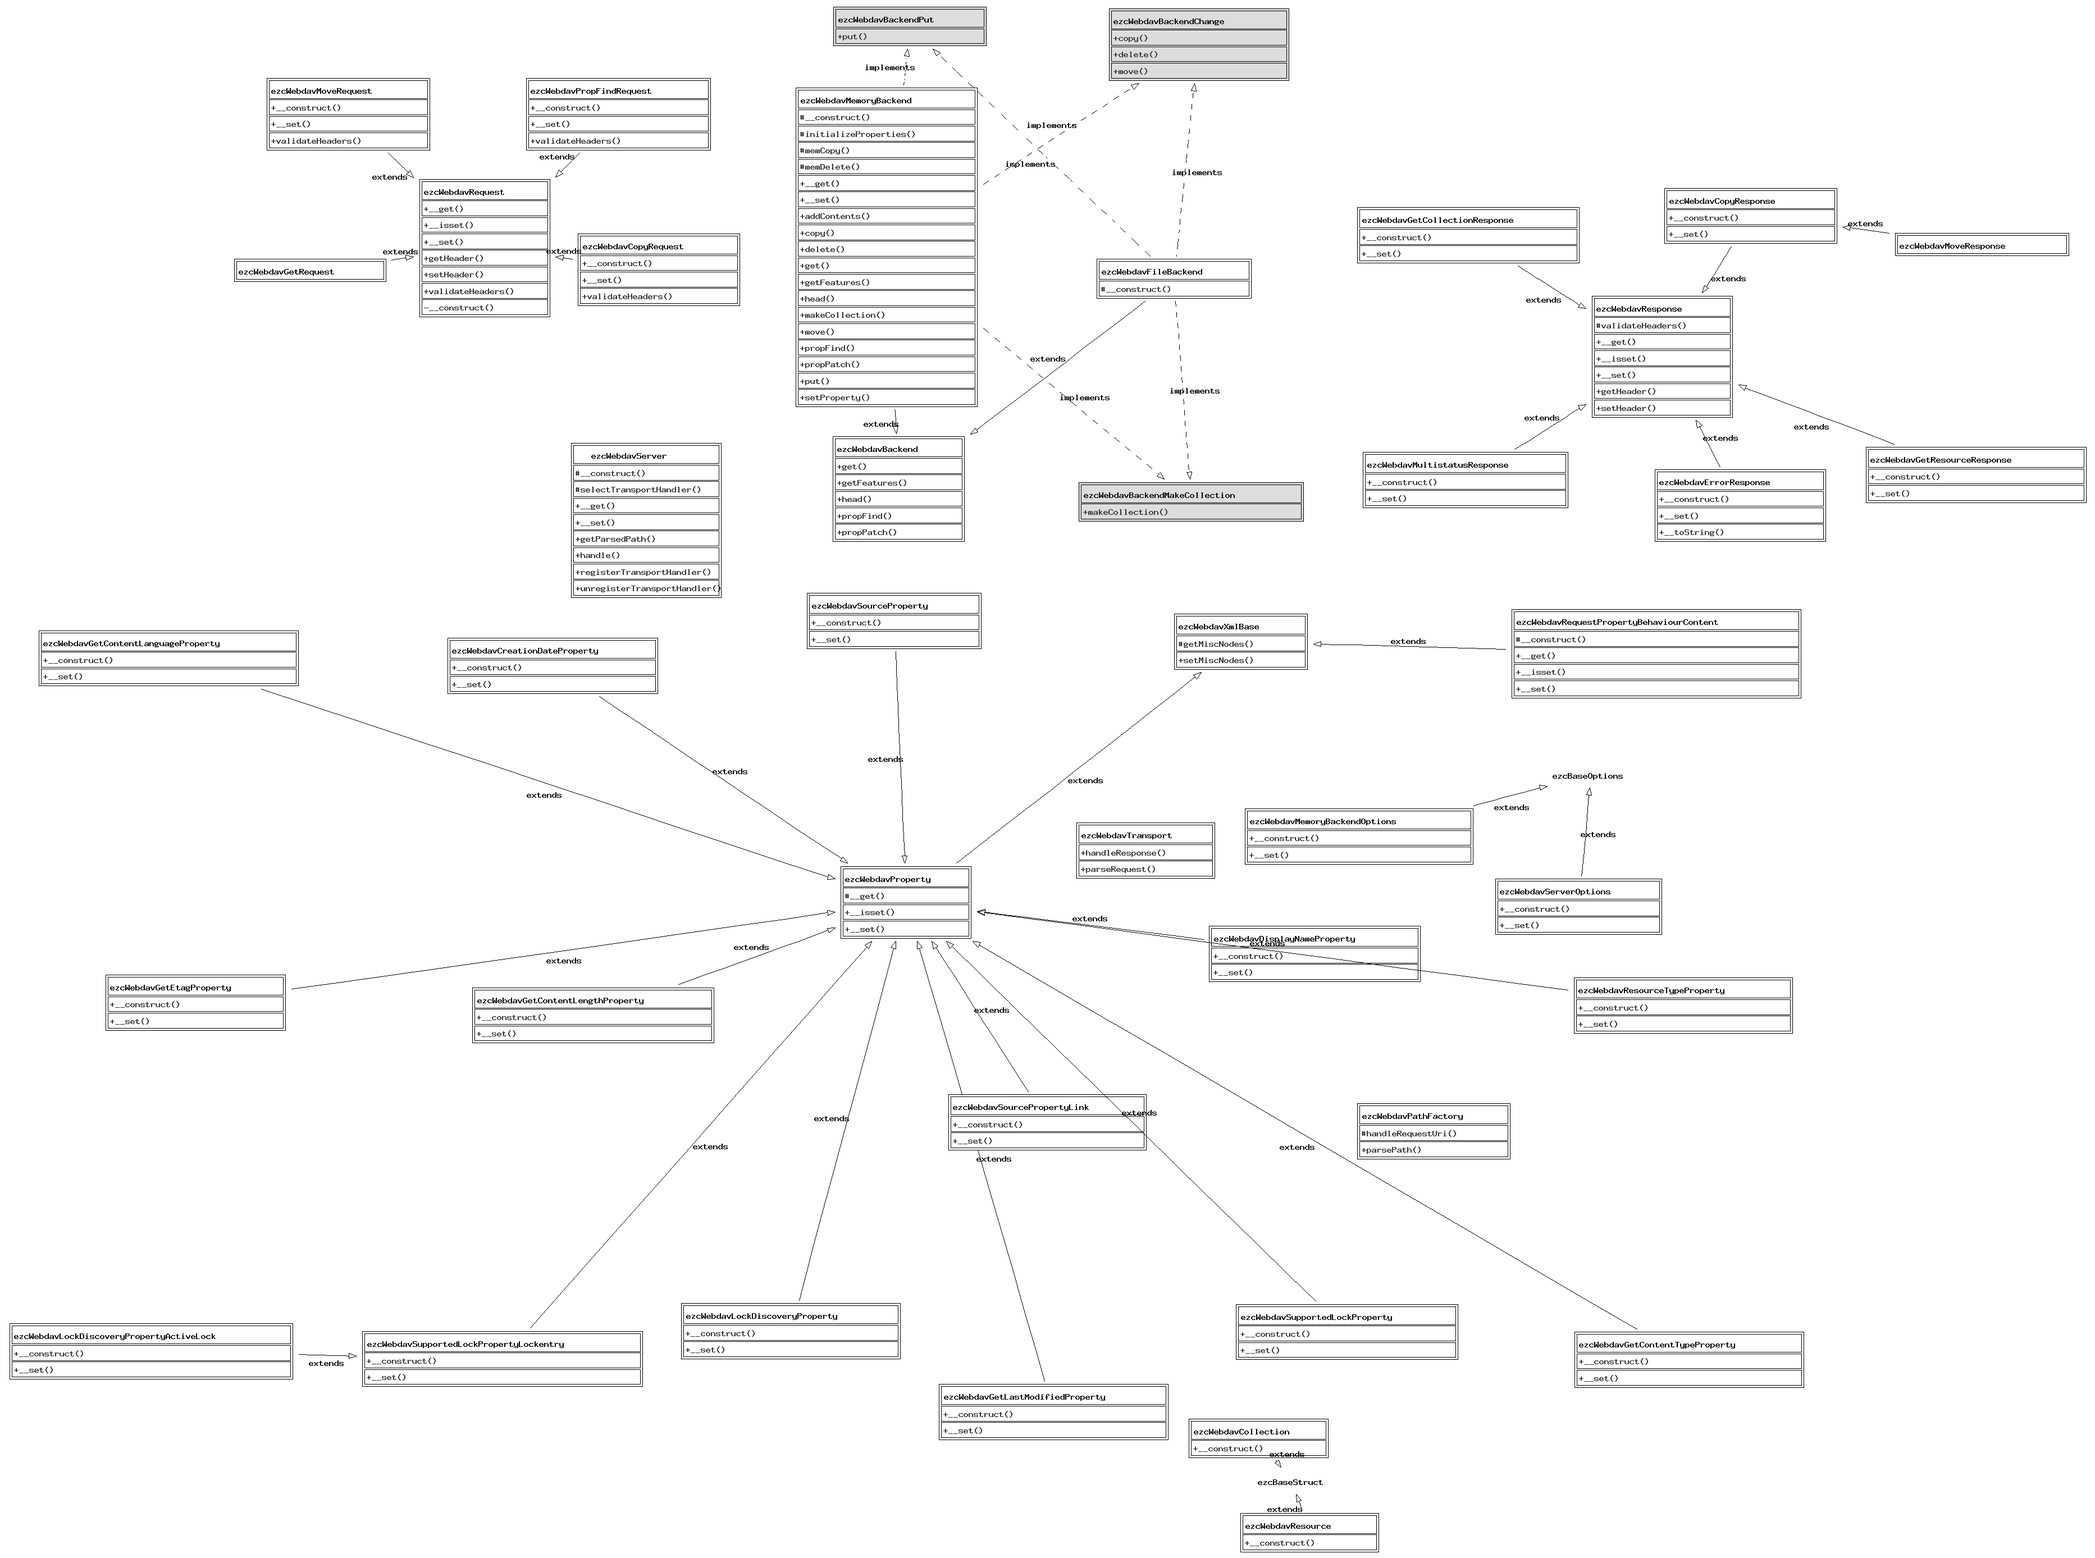
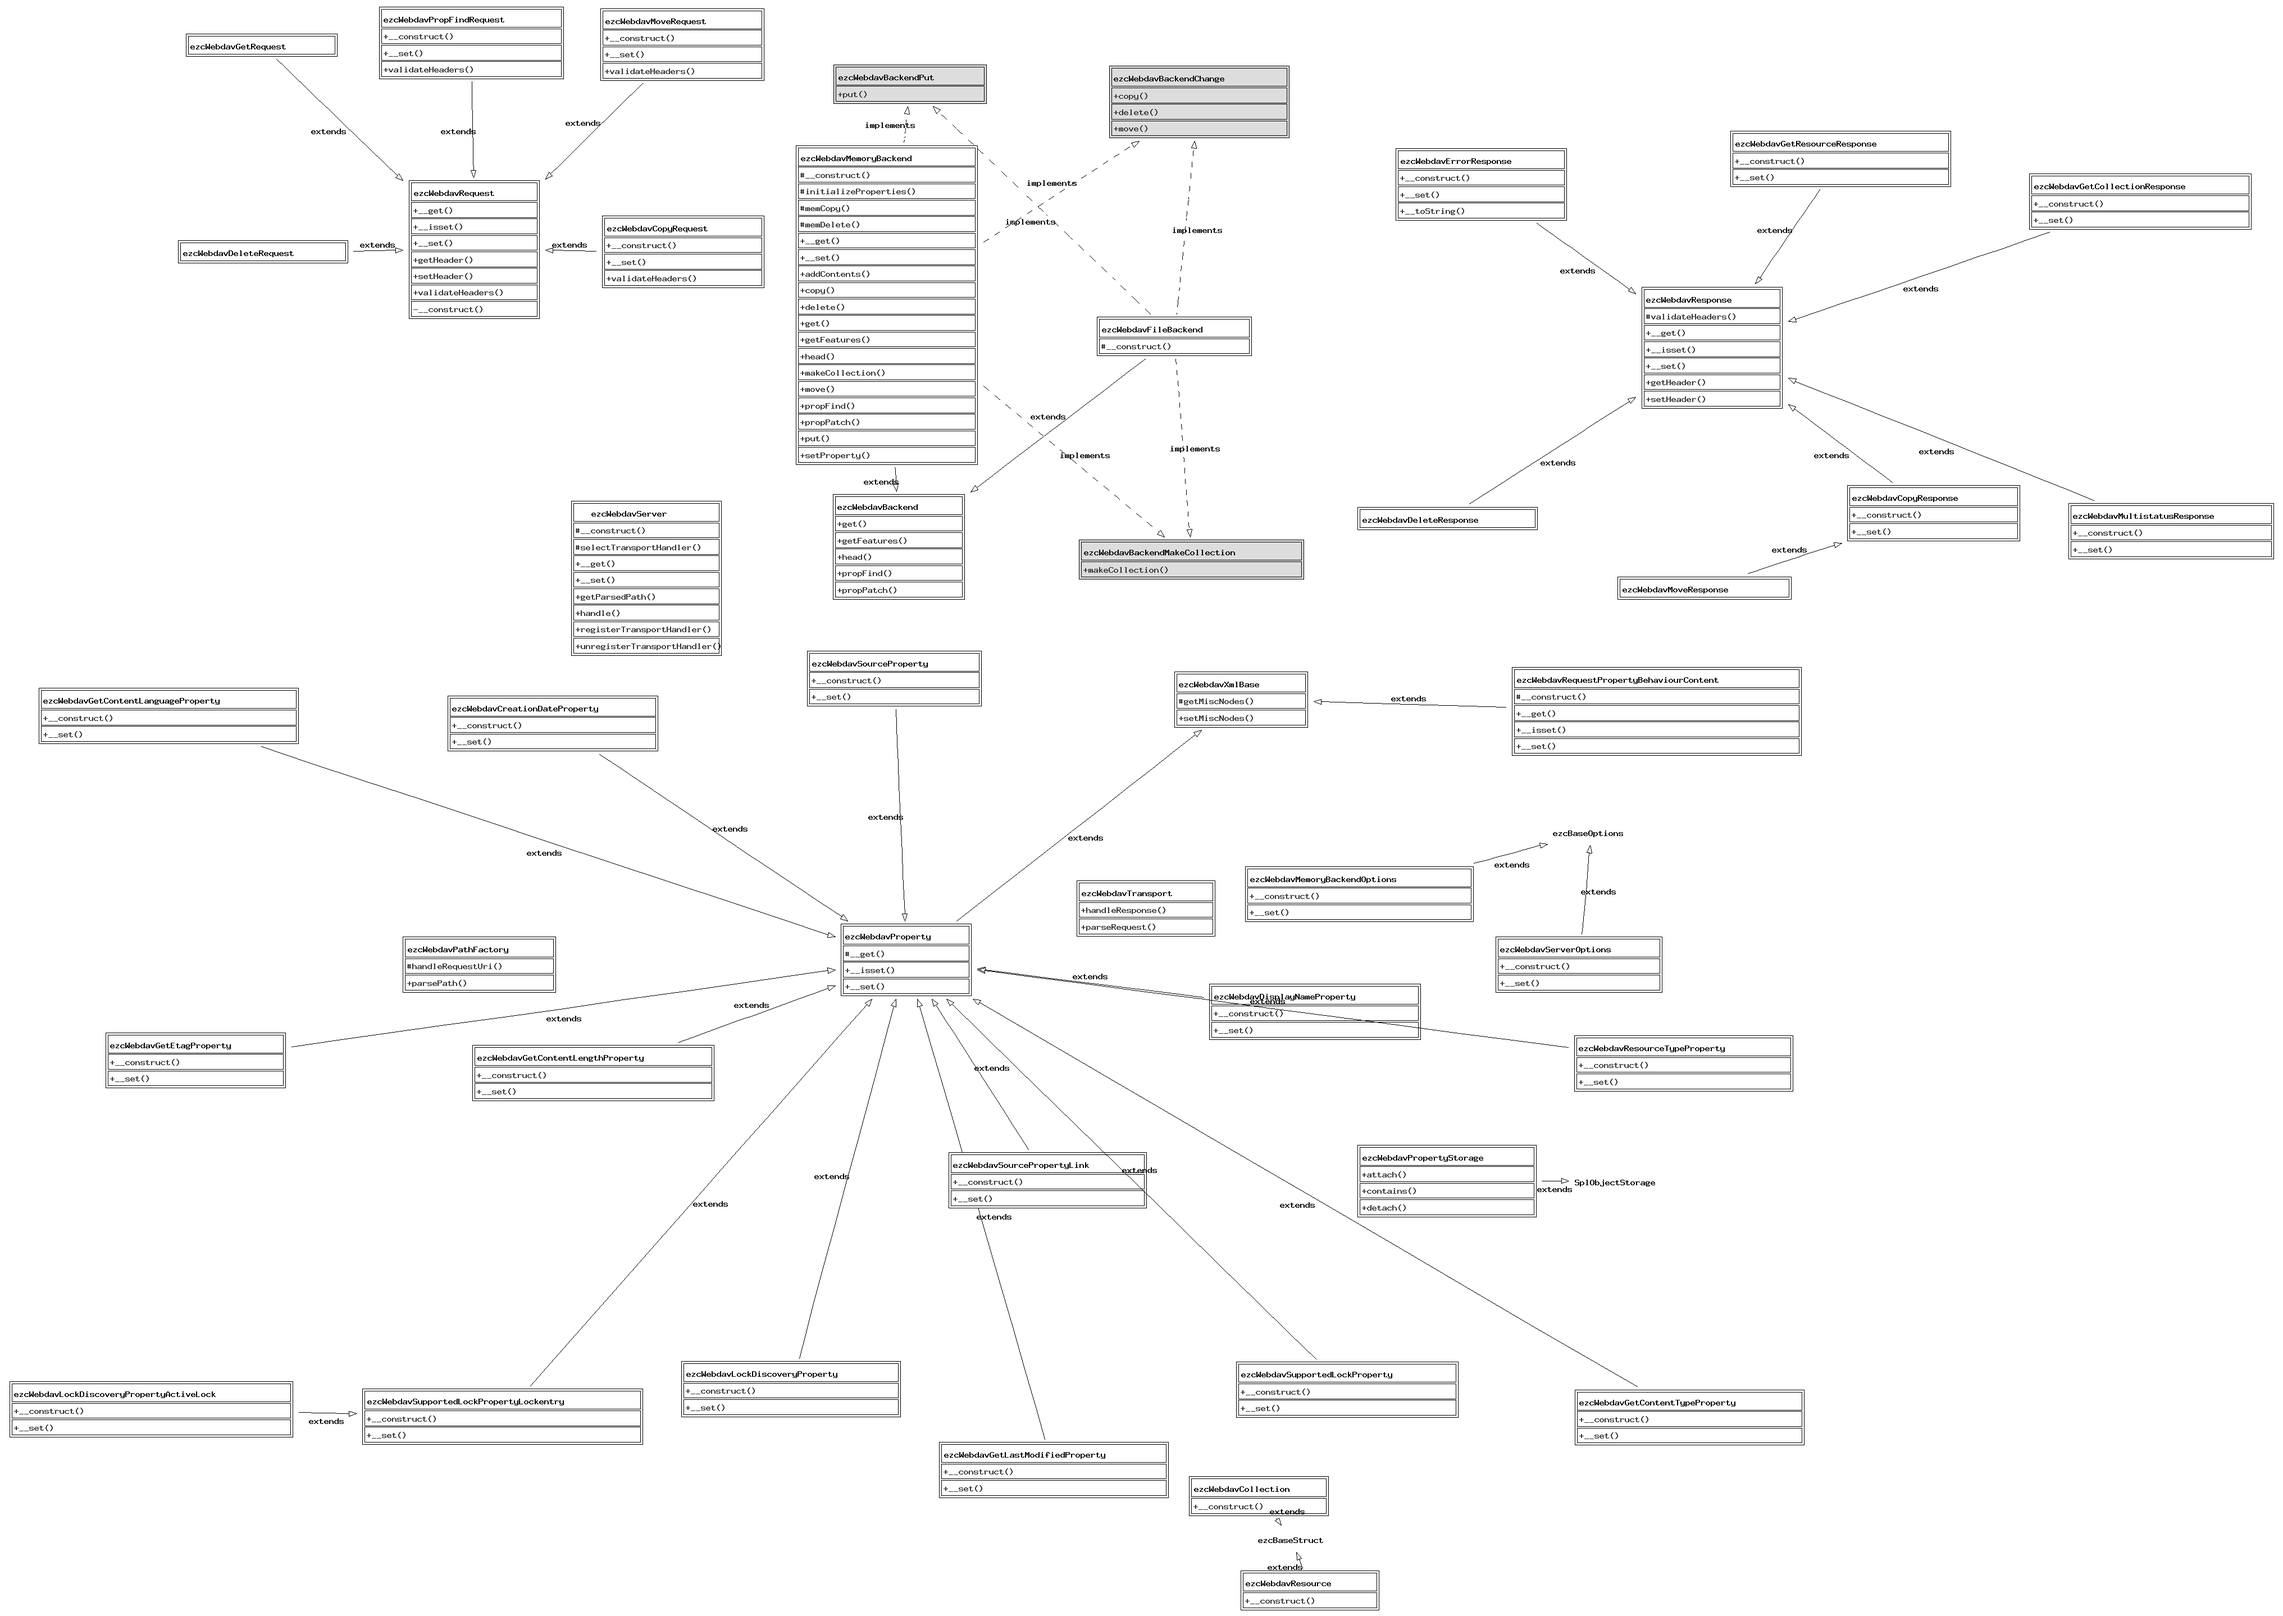
- Added requests, responses and memory backend implementation for delete
git-svn-id: http://svn.ez.no/svn/ezcomponents/trunk@6110 bc0e7bdc-f0fc-0310-8ff6-f601c06e1256

diff --git a/Webdav/tests/backend_memory_test.php b/Webdav/tests/backend_memory_test.php
@@ -963,5 +963,119 @@ class ezcWebdavMemoryBackendTest extends ezcWebdavTestCase
             )
         );
     }
+
+    public function testResourceDelete()
+    {
+        $backend = new ezcWebdavMemoryBackend();
+        $backend->addContents( array(
+            'foo' => 'bar',
+            'bar' => array(
+                'blubb' => 'Somme blubb blubbs.',
+            )
+        ) );
+
+        $request = new ezcWebdavDeleteRequest( '/foo' );
+        $request->validateHeaders();
+        $response = $backend->delete( $request );
+
+        $this->assertEquals(
+            $response,
+            new ezcWebdavDeleteResponse(
+                '/foo'
+            ),
+            'Expected response does not match real response.'
+        );
+
+        $content = $this->readAttribute( $backend, 'content' );
+        $this->assertEquals(
+            $content,
+            array(
+                '/' => array(
+                    '/bar',
+                ),
+                '/bar' => array(
+                    '/bar/blubb',
+                ),
+                '/bar/blubb' => 'Somme blubb blubbs.',
+            )
+        );
+    }
+
+    public function testCollectionDelete()
+    {
+        $backend = new ezcWebdavMemoryBackend();
+        $backend->addContents( array(
+            'foo' => 'bar',
+            'bar' => array(
+                'blubb' => 'Somme blubb blubbs.',
+            )
+        ) );
+
+        $request = new ezcWebdavDeleteRequest( '/bar' );
+        $request->validateHeaders();
+        $response = $backend->delete( $request );
+
+        $this->assertEquals(
+            $response,
+            new ezcWebdavDeleteResponse(
+                '/bar'
+            ),
+            'Expected response does not match real response.'
+        );
+
+        $content = $this->readAttribute( $backend, 'content' );
+        $this->assertEquals(
+            $content,
+            array(
+                '/' => array(
+                    '/foo',
+                ),
+                '/foo' => 'bar',
+            )
+        );
+    }
+
+    public function testResourceDeleteError()
+    {
+        $backend = new ezcWebdavMemoryBackend();
+        $backend->addContents( array(
+            'foo' => 'bar',
+            'bar' => array(
+                'blubb' => 'Somme blubb blubbs.',
+            )
+        ) );
+
+        $backend->options->failingOperations = ezcWebdavRequest::DELETE;
+        $backend->options->failForRegexp = '(foo)';
+
+        $request = new ezcWebdavDeleteRequest( '/foo' );
+        $request->validateHeaders();
+        $response = $backend->delete( $request );
+
+        $this->assertEquals(
+            $response,
+            new ezcWebdavErrorResponse(
+                ezcWebdavErrorResponse::STATUS_423,
+                '/foo'
+            ),
+            'Expected response does not match real response.'
+        );
+
+        $content = $this->readAttribute( $backend, 'content' );
+        $this->assertEquals(
+            $content,
+            array(
+                '/' => array(
+                    '/foo',
+                    '/bar',
+                ),
+                '/foo' => 'bar',
+                '/bar' => array(
+                    '/bar/blubb',
+                ),
+                '/bar/blubb' => 'Somme blubb blubbs.',
+            )
+        );
+    }
 }
 ?>

diff --git a/Webdav/src/webdav_autoload.php b/Webdav/src/webdav_autoload.php
@@ -30,6 +30,8 @@ return array(
     'ezcWebdavCollection'                      => 'Webdav/structs/collection.php',
     'ezcWebdavCopyRequest'                     => 'Webdav/request/copy.php',
     'ezcWebdavCreationDateProperty'            => 'Webdav/properties/creationdate.php',
+    'ezcWebdavDeleteRequest'                   => 'Webdav/request/delete.php',
+    'ezcWebdavDeleteResponse'                  => 'Webdav/response/delete.php',
     'ezcWebdavDisplayNameProperty'             => 'Webdav/properties/displayname.php',
     'ezcWebdavErrorResponse'                   => 'Webdav/response/error.php',
     'ezcWebdavFileBackend'                     => 'Webdav/backend/file.php',
@@ -50,7 +52,6 @@ return array(
     'ezcWebdavMultistatusResponse'             => 'Webdav/response/multistatus.php',
     'ezcWebdavPathFactory'                     => 'Webdav/path_factory.php',
     'ezcWebdavPropFindRequest'                 => 'Webdav/request/propfind.php',
-    'ezcWebdavPropPatchRequest'                => 'Webdav/request/proppatch.php',
     'ezcWebdavPropertyStorage'                 => 'Webdav/property_storage.php',
     'ezcWebdavRequestPropertyBehaviourContent' => 'Webdav/request/content/property_behaviour.php',
     'ezcWebdavResource'                        => 'Webdav/structs/resource.php',

diff --git a/Webdav/src/backend/memory.php b/Webdav/src/backend/memory.php
@@ -600,7 +600,22 @@ class ezcWebdavMemoryBackend
      */
     public function delete( ezcWebdavDeleteRequest $request )
     {
-        // @TODO: Implement.
+        $deletion = $this->memDelete( $source = $request->requestUri );
+
+        // If deletion failed, this has again been caused by the automatic
+        // error causing facilities of the backend. Send 423 by choice.
+        if ( $deletion !== true )
+        {
+            return new ezcWebdavErrorResponse(
+                ezcWebdavErrorResponse::STATUS_423,
+                $source
+            );
+        }
+
+        // Send proper response on success
+        return new ezcWebdavDeleteResponse(
+            $source
+        );
     }
 
     /**

diff --git a/Webdav/src/request/delete.php b/Webdav/src/request/delete.php
@@ -1,6 +1,7 @@
 <?php
 /**
- * File containing the class representing a GET request to the WebDAV server.
+ * File containing the class representing a DELETE request to the WebDAV
+ * server.
  *
  * @package Webdav
  * @version //autogentag//
@@ -8,13 +9,13 @@
  * @license http://ez.no/licenses/new_bsd New BSD License
  */
 /**
- * Struct-like class representing all relevant information about a webdav GET
- * request.
+ * Struct-like class representing all relevant information about a webdav
+ * DELETE request.
  *
  * @version //autogentag//
  * @package Webdav
  */
-class ezcWebdavGetRequest extends ezcWebdavRequest
+class ezcWebdavDeleteRequest extends ezcWebdavRequest
 {
 }
 

diff --git a/Webdav/src/response/delete.php b/Webdav/src/response/delete.php
@@ -1,0 +1,23 @@
+<?php
+/**
+ * File containing the class representing a delete response from the webdav
+ * server.
+ *
+ * @package Webdav
+ * @version //autogentag//
+ * @copyright Copyright (C) 2005-2007 eZ systems as. All rights reserved.
+ * @license http://ez.no/licenses/new_bsd New BSD License
+ */
+/**
+ * Class representing a response on a delete request.
+ *
+ * @version //autogentag//
+ * @package Webdav
+ * @copyright Copyright (C) 2005-2007 eZ systems as. All rights reserved.
+ * @license http://ez.no/licenses/new_bsd New BSD License
+ */
+class ezcWebdavDeleteResponse extends ezcWebdavResponse
+{
+}
+
+?>
